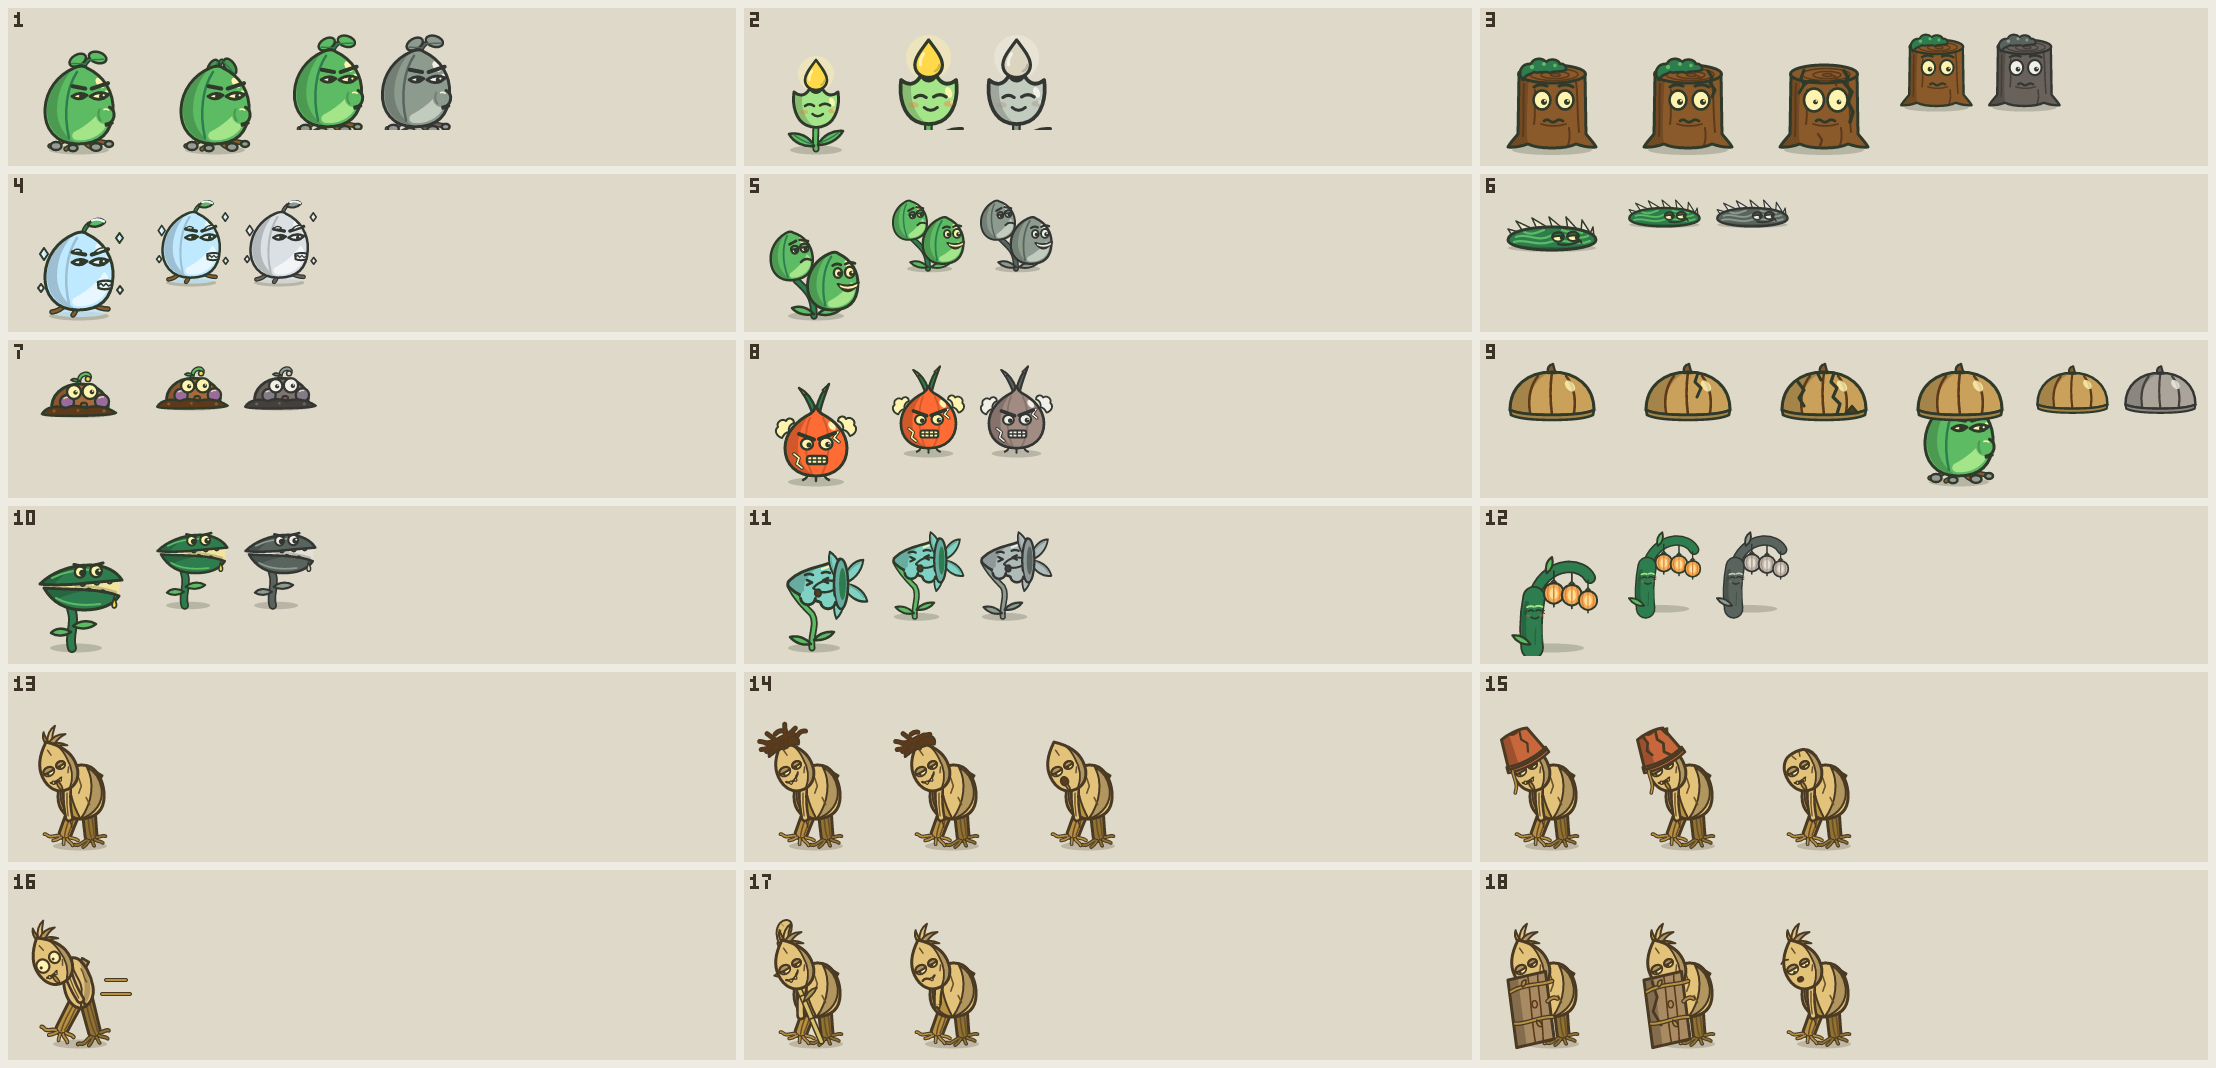
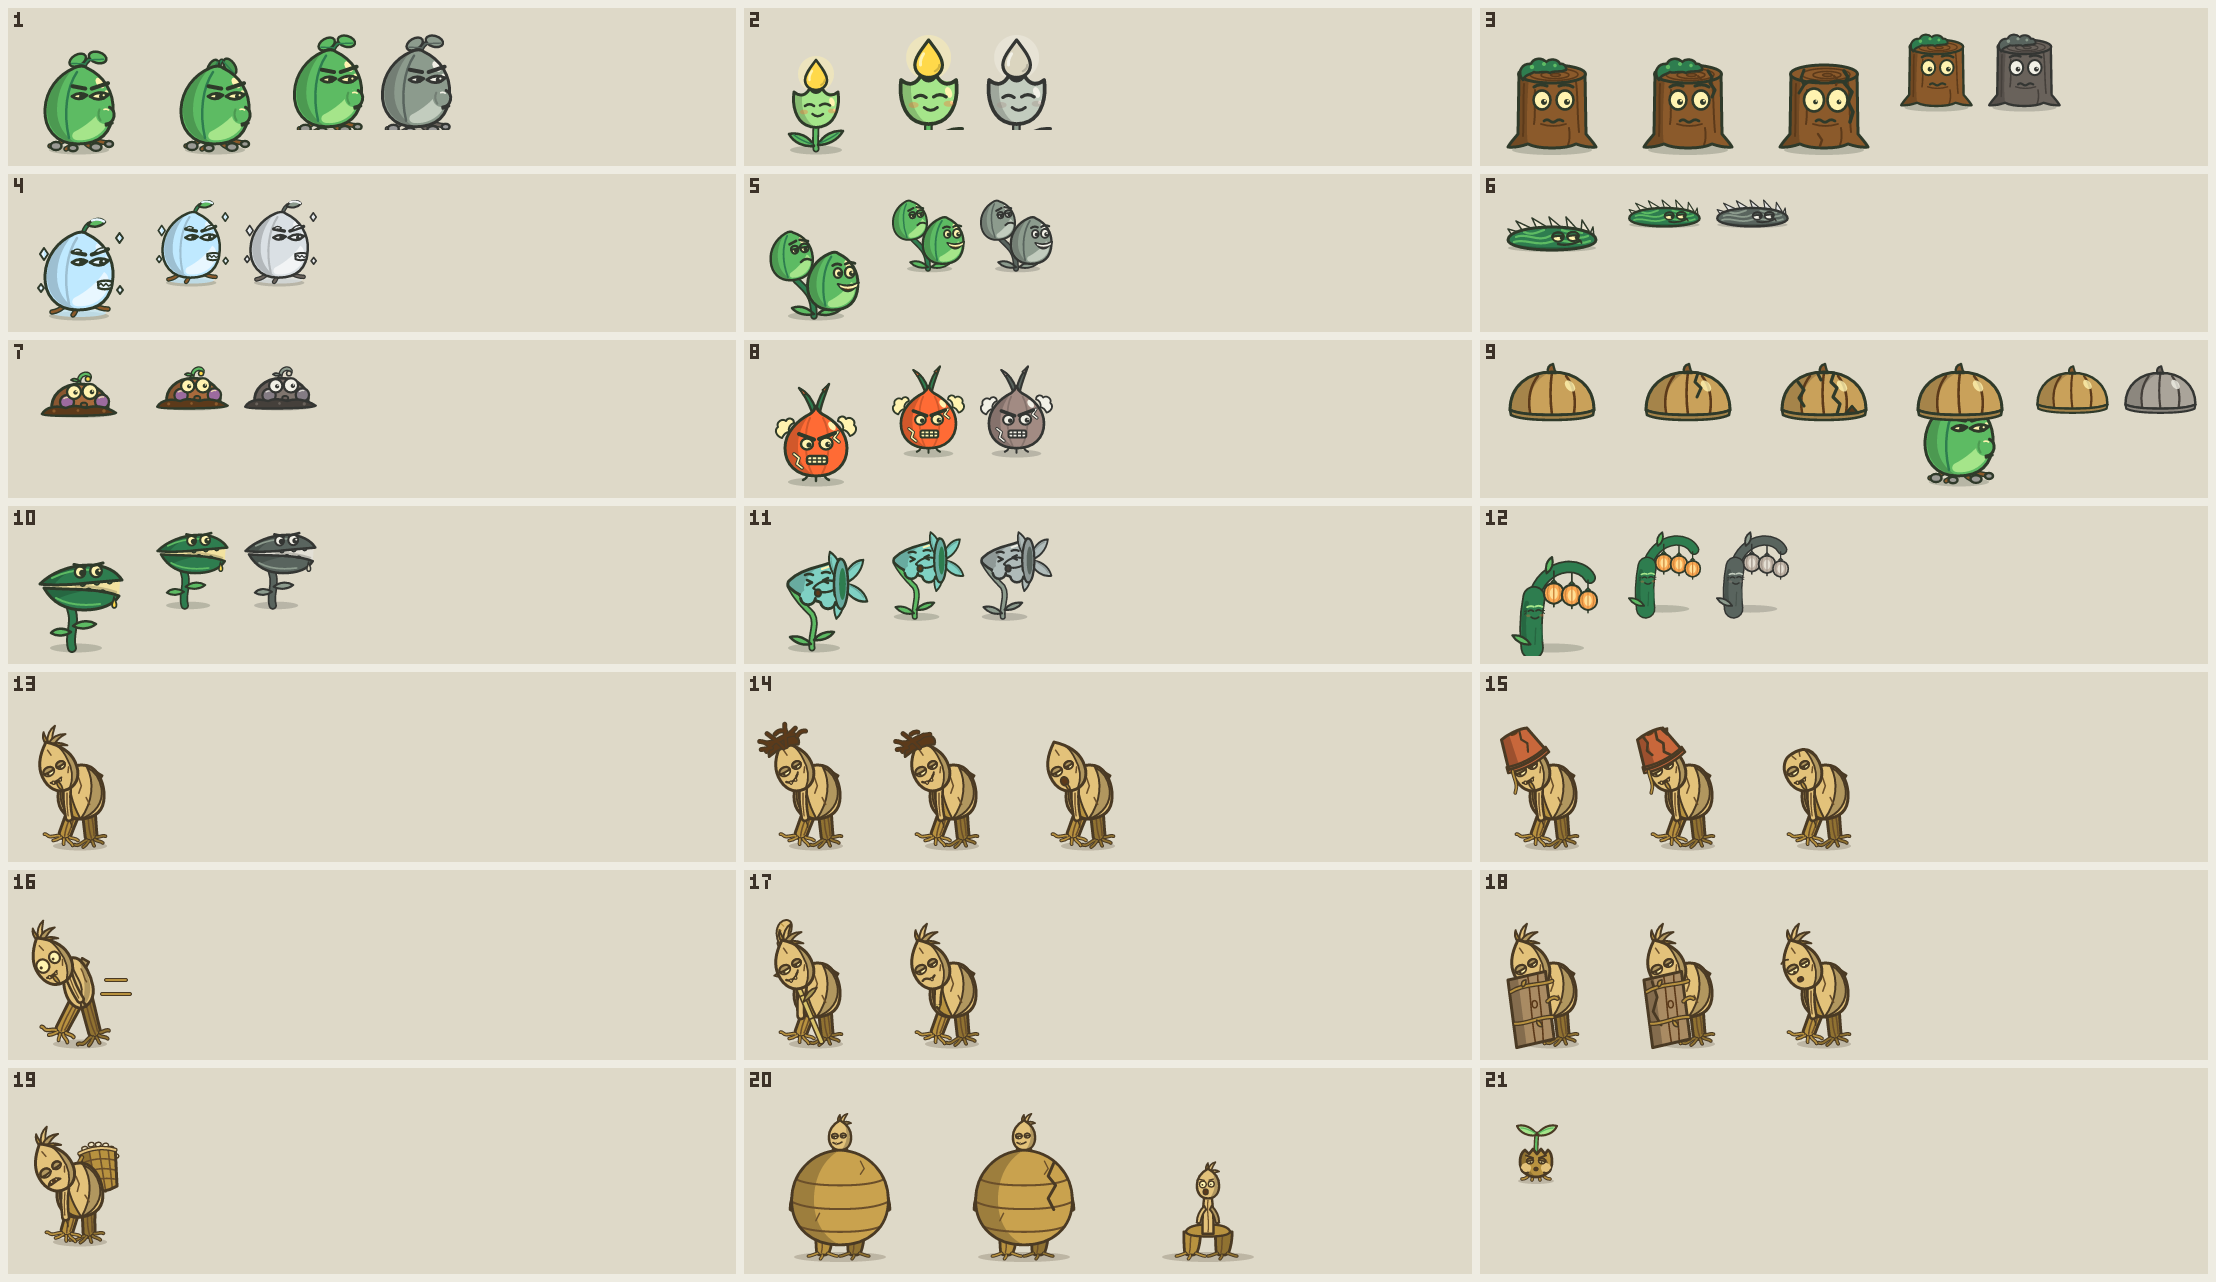
docs(art): A1 审核表 review-A1.png 与剪影版（19 个完成，停下等审核）
21 角色默认位姿、受损 / 护甲 / 跨越后状态、12 个守卫头像；对照表 docs/art/review-A1.md 附每个特征的出处与实现者
剪影自查。

diff --git a/docs/art/review-A1.md b/docs/art/review-A1.md
@@ -4,6 +4,7 @@
 
 - `review-A1-partial.png`：每完成 4 个角色更新一次的中间审核表（不停下）。
 - `review-A1.png` 与 `review-A1-silhouette.png`：19 个全部完成后的审核表与纯黑剪影版（停下等批准）。
+  剪影版只含各状态的默认位姿（无头像）。
 
 每格左上角是序号（SPEC 7.1 / 8.1 表格顺序，下表）。格内从左到右：各受损 / 护甲状态的默认位姿（第一张为
 完好），守卫最后两张是卡牌头像（80 × 100）与“不可用”去饱和版（费用角标由 HUD 绘制）。
@@ -31,6 +32,9 @@
 | 16 | `sprinter_husk` | 疾行枯壳 | 完好 | 枯壳怪 |
 | 17 | `vault_husk` | 跳栏枯壳 | 完好 / vaulted（跨越后） | 枯壳怪 |
 | 18 | `shield_husk` | 门板枯壳 | 完好 / cracked / bare | 枯壳怪 |
+| 19 | `carrier_husk` | 背篓枯壳 | 完好 | 枯壳怪 |
+| 20 | `drum_husk` | 鼓腹枯壳 | 完好 / cracked / bare | 枯壳怪（176 × 176） |
+| 21 | `sproutling` | 小芽怪 | 完好 | 枯壳怪（96 × 96） |
 
 ## 2 露杯 Dewcup
 
@@ -200,3 +204,45 @@ Husk 共同说明：A1 的 Husk 默认位姿取枯壳怪 walk 第 0 帧的姿势
 | 躲在板后只露眼睛和头顶 | 5.6 外形 |
 | cracked：板上一道裂纹 | 2.4 Shield 2 级 |
 | bare：木板没了，一脸茫然低头看（瞳孔朝下、张着的小口） | 5.6“破碎时……它一脸茫然低头看” |
+
+## 19 背篓枯壳 Carrier Husk
+
+| 特征 | 出处 |
+|---|---|
+| 比枯壳怪更驼 | 5.7 外形“驼背”；LORE“疲惫” |
+| 背上一只由干花序编成的篓（`straw_dark` 编织纹），背带也是干花序编的、长在肩上 | 5.7 外形；1.5 附件长在身上 |
+| 篓口溢出淡色种子（`seed`），一粒正往下掉 | 5.7 外形；LORE“背着自己的种子” |
+| 眼皮压得更低；嘴角下拉的歪斜小口，露出 2 粒干种子 | 5.7“累得龇牙”；v1.1 1.2（禁止成排牙） |
+
+初稿的嘴是一道锯齿线加种子，读作“缝起来的嘴”（恐怖意象），改为张开的小口。
+
+## 20 鼓腹枯壳 Drum Husk
+
+| 特征 | 出处 |
+|---|---|
+| 176 × 176，巨大圆葫芦身（`drum`），三道环形纹路 | 5.8 外形；LORE“干透的大葫芦，中空所以是鼓” |
+| 顶上一个小头（干种荚头缩小版）、得意的小笑 | 5.8“小头、小得意笑” |
+| 短粗根腿、两侧下垂的小短臂 | 5.8 外形；v1.1 1.2 垂臂姿势 |
+| cracked：葫芦身裂开一道 | 2.4 Drum 2 级 |
+| bare：葫芦身炸开，露出一根细干茎的真身站在根座上，小头下移、表情慌张（眼睁大但仍是小瞳孔无高光） | 5.8“露出里面瘦小的真身……表情慌张” |
+
+整体 93% 以满足 1.4 的 150 px 上限（初稿 159）。
+
+## 21 小芽怪 Sproutling
+
+| 特征 | 出处 |
+|---|---|
+| 96 × 96，裂开的种壳（`straw_dark`），上缘是破开的锯齿 | 5.9 外形 |
+| 种壳里钻出的双叶嫩芽（`leaf_light`，Husk 里唯一的绿） | 5.9 外形；LORE“枯壳里仍有生命的证明” |
+| 气鼓鼓的小脸：鼓腮、压向中间的眉与眼皮、噘嘴 | 5.9 外形 |
+| 小根须脚 | 5.9“小碎步”；5 共同 |
+
+## 实现者自查（剪影版，2026-10-16）
+
+- 21 个角色的**主形态**在剪影中都能区分。各 Husk 的破甲 / 跨越后状态回到枯壳怪基本形，这是设定本身（附件没了）。
+- **较弱的两对**：17 跳栏枯壳与 13 枯壳怪——芦苇杆细且从头后穿过，剪影里只多一个芦花头；7 块茎雷与 9 葫芦壳——
+  都是低矮的圆顶，靠大小、卷芽 / 瓜蒂与土堆区分。如需加强，跳栏枯壳可以把杆移到头前、加粗。
+- **“小鸟感”**（裁决六第 1 节留待本次评估）：9 个 Husk 放在一起，基础形仍带鸟感，背篓枯壳（19）最明显（背篓像
+  鸡的尾部），枯壳怪（13）次之；带大附件的（14 / 15 / 18 / 20）已经分化。负责人提出的“荚尖从向前改为向后倒”
+  我没有动，等裁决。
+- 知识产权：未参照任何既有作品；咬夹草（10）是本表风险最高的一张，见上文第 10 节。

diff --git a/docs/progress.md b/docs/progress.md
@@ -3,8 +3,8 @@
 ## 会话记录（新记录追加在最上方）
 
 - 2026-10-16 会话 7：执行裁决（六）`2026-10-16-a1-go.md`：枯壳怪通过并定为 8 个 Husk 的模板，A1 放行。先查“错位
-  白色剪影”：不是闪白帧问题，是重叠敌人的绘制顺序（ADR-014 后续条目），已修。随后按“11 守卫 → 8 Husk”开始 A1，
-  进度见“美术阶段 → A1”。
+  白色剪影”：不是闪白帧问题，是重叠敌人的绘制顺序（ADR-014 后续条目），已修。随后按“11 守卫 → 8 Husk”完成 A1 的
+  19 个角色，每 4 个更新一次中间审核表，最后输出 `review-A1.png` 与剪影版。**停下等 A1 审核**。
 
 - 2026-10-16 会话 6：执行负责人裁决 `2026-10-16-a0-review.md`（五）与 ART-SPEC v1.1（负责人已入库 f07056e）：
   石籽荚通过并作为守卫模板；枯壳怪按 v1.1 1.2 / 1.5 / 5.1 重做头部与姿势，重拍实机截图。**停下**，等负责人看过
@@ -70,7 +70,7 @@
 | 里程碑 | 状态 |
 |---|---|
 | A0 管线 | ✅ 2026-10-15 |
-| A1 全员静态（审核门） | 进行中（裁决六放行，2026-10-16） |
+| A1 全员静态（审核门） | 19 个完成，审核表已出（2026-10-16）；**等负责人批准** |
 | A2 全员动画与特效 | 未开始 |
 | A3 战场与叙事 | 未开始 |
 
@@ -100,6 +100,15 @@
 - [x] 第 4 批（2026-10-16）：陶盔枯壳、疾行枯壳、跳栏枯壳（vaulted 状态）、门板枯壳 → `review-A1-partial.png` 更新。
   陶盆初稿盖住眼睛、门板初稿挡住眼睛，均调整到“只露眼睛”；跳栏枯壳的芦花初稿读作矛头（1.5 禁止持握武器），改为
   下垂绒穗，杆身 140 px 超限已下移。
+- [x] 第 5 批（2026-10-16）：背篓枯壳、鼓腹枯壳（Drum 2 级 + 破碎露出真身）、小芽怪 → **19 个全部完成**。
+  背篓枯壳的嘴初稿读作“缝起来的嘴”，改为张开的小口；鼓腹枯壳 159 > 150 px，整体 93%。
+- [x] `docs/art/review-A1.png`（21 个角色 · 各受损 / 护甲 / 跨越后状态 · 12 个守卫的头像与“不可用”版 · 葫芦壳罩在
+  宿主上的示意）与 `docs/art/review-A1-silhouette.png`；对照表与每个特征的出处 `docs/art/review-A1.md`，其末尾是
+  实现者的剪影自查（两对较弱、“小鸟感”仍在且背篓枯壳最明显）。
+- 资产：21 角色 / 173 个部件文件 / 62 个片段 / 263 帧（去重后 168 张图）；`garden_defenders.png` 2048 × 780、
+  `garden_husks.png` 2048 × 664、`garden_ui.png` 512 × 408。调色板：新增 1 个专属色（块茎雷 `flush`）。
+- **停下：A1 审核门**（裁决五第 3 节、裁决六第 3 节、AGENT 3.1）。等负责人批准 `review-A1.png` 或给出修改意见后
+  才开始 A2 的动画。期间不做 A2 的任何内容。
 
 ### A0 审核（裁决五，2026-10-16）
 
